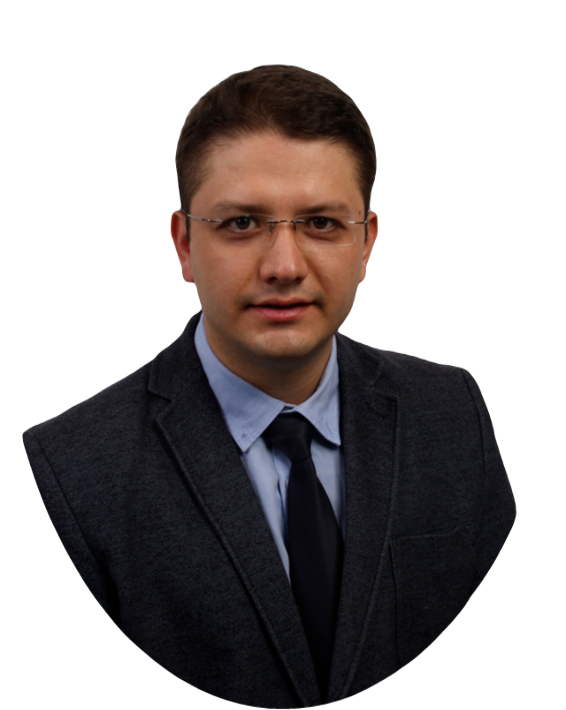
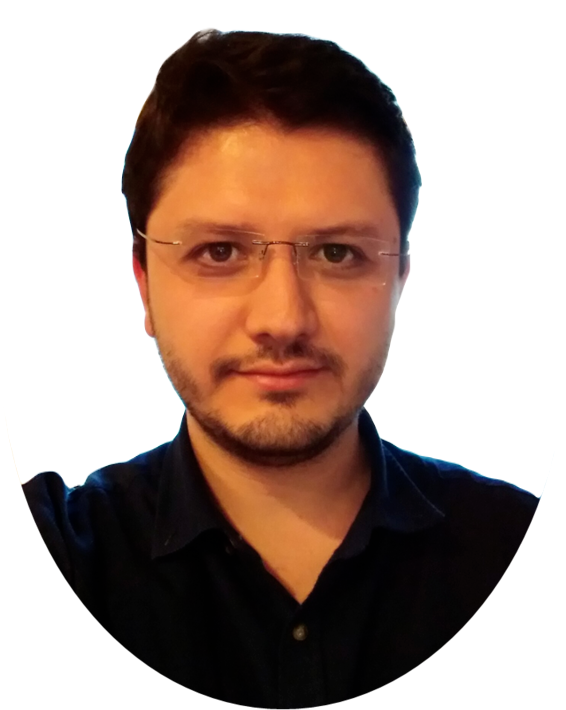
fixed

diff --git a/src/container/Header/Header.scss b/src/container/Header/Header.scss
@@ -167,7 +167,7 @@
 
 .app__header-img {
     flex: 1;
-    height: 100;
+    height: 100%;
 
     display: flex;
     justify-content: flex-end;
